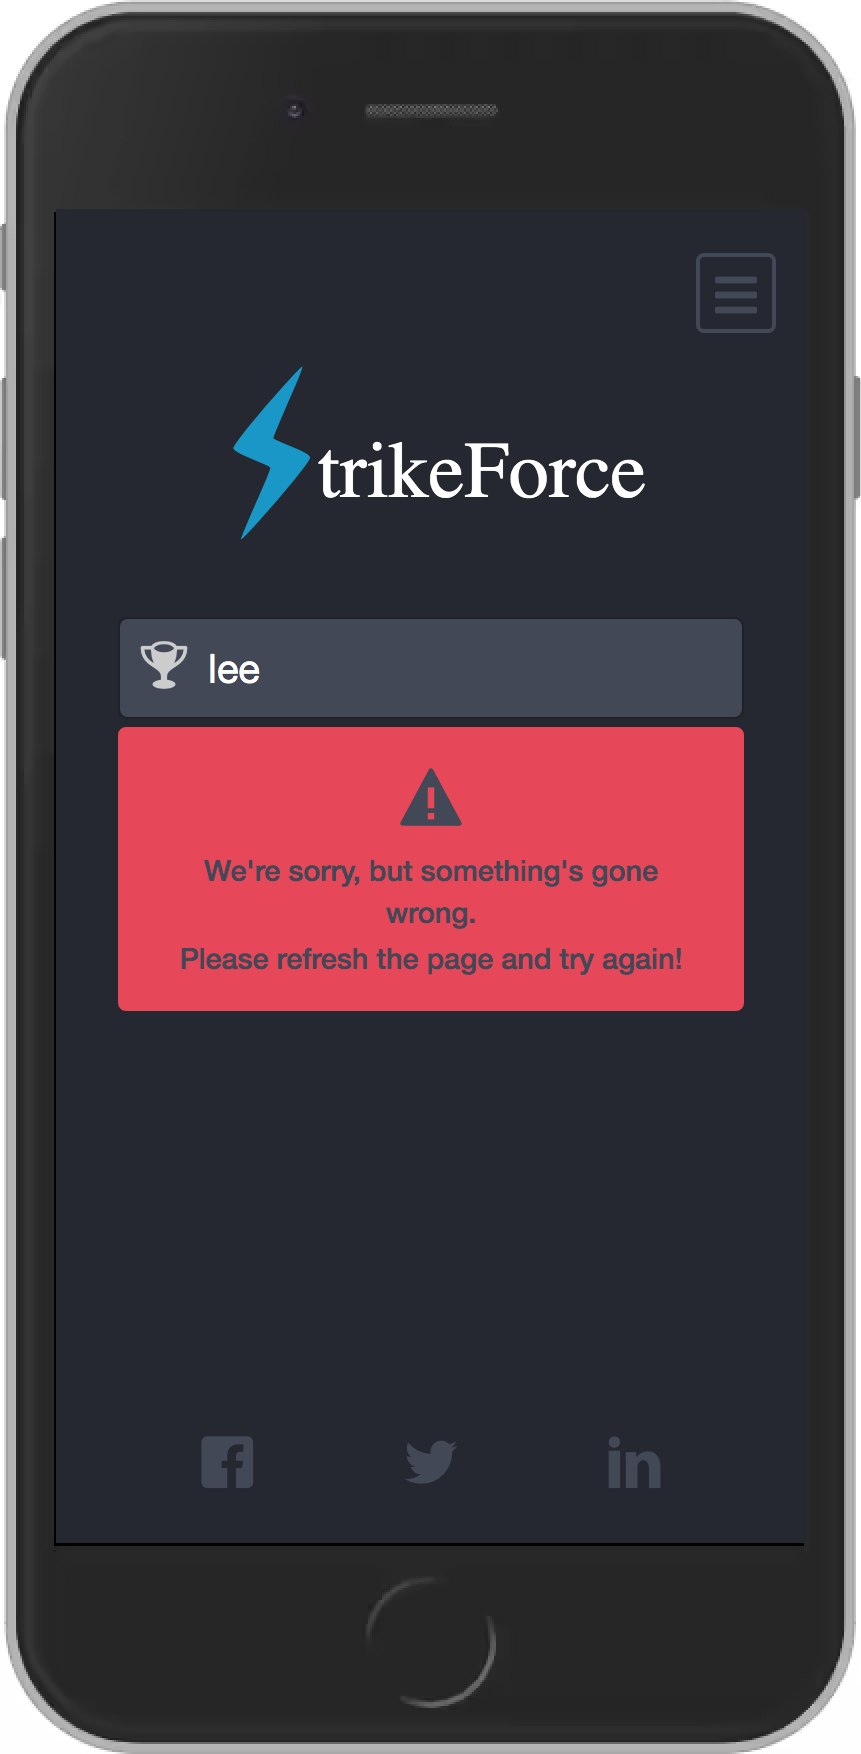
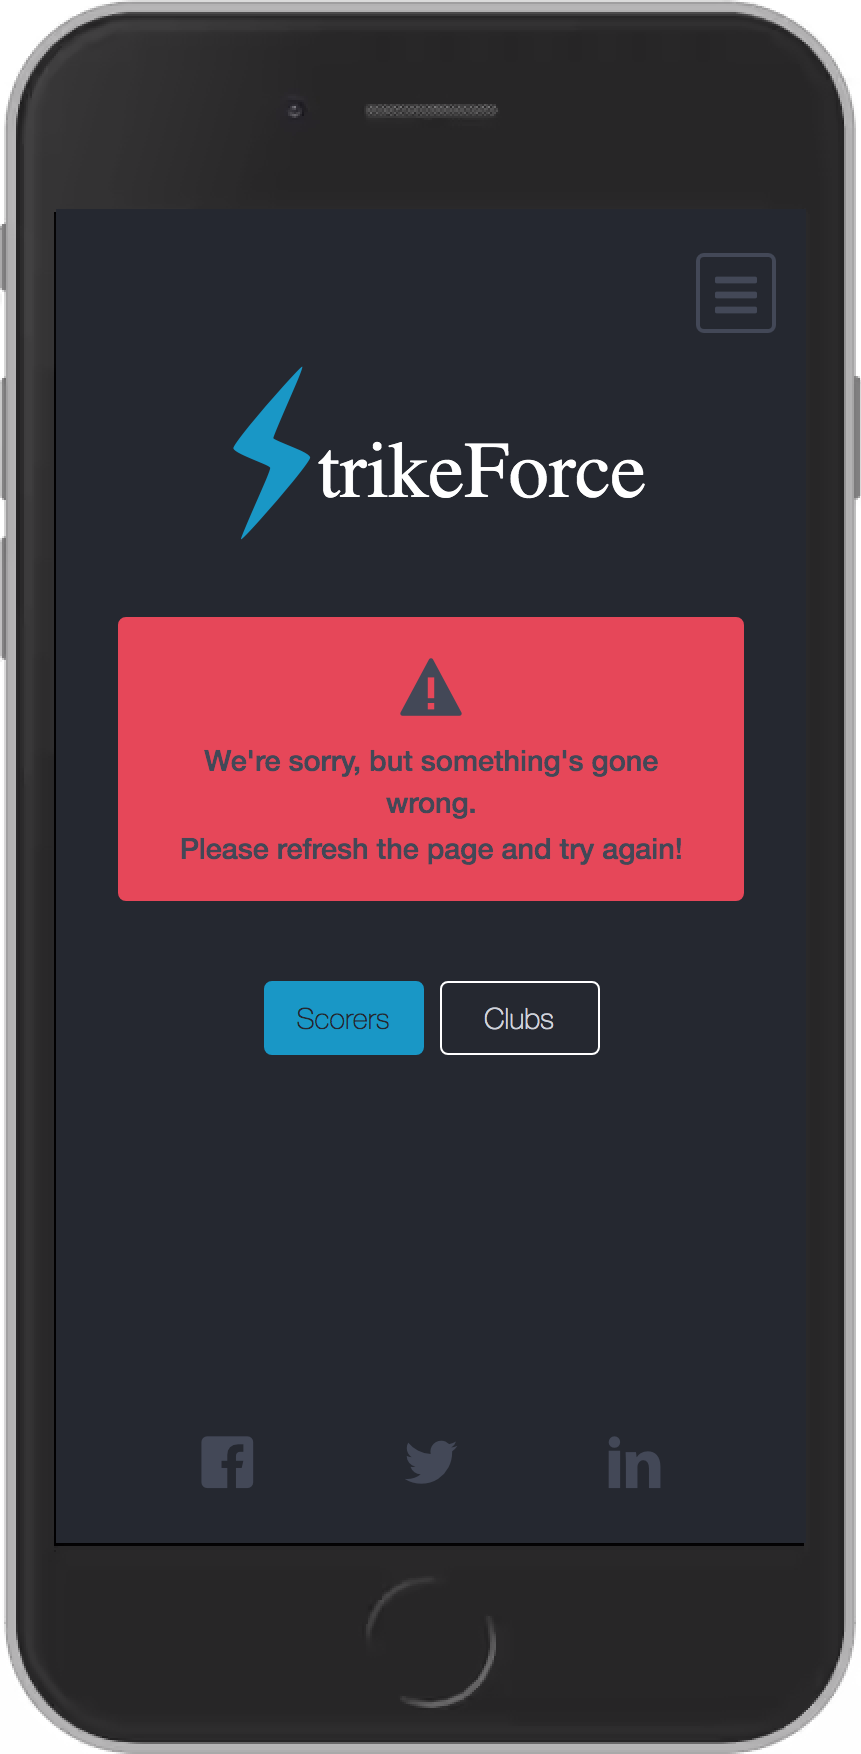
Update error handling code to cater for no response from API

Changed region(s): [[0.1208, 0.3387, 0.8757, 0.6157]]

diff --git a/assets/js/script.js b/assets/js/script.js
@@ -182,15 +182,26 @@ $(document).ready(function() {
             const getScorerID = new scorerSettings();
             getScorerID.url += `search?query=${scorerName}`;
             $.ajax(getScorerID).done(function(response) {
-                // Store scorer ID from initial API call in variable
-                var scorerID = response.players[0].id;
+                if (response.count.players === 0) {
+                    // Hide pill buttons while page is loading scorer data
+                    $('#pills-tab').addClass('d-none');
+                    playerMatchList.innerHTML = renderSpinner();
+                    setTimeout(() => {
+                        playerMatchList.innerHTML = "<div class='alert alert-danger text-center' role='alert'><span class='icon icon-warning'></span><br><p>We're sorry, but something's gone wrong.</p><p>Please refresh the page and try again!</p></div>";
+                        $('#pills-tab').removeClass('d-none');
+                    }, 5000);
+                    return false;
+                } else {
+                    // Store scorer ID from initial API call in variable
+                    var scorerID = response.players[0].id;
+                }
 
                 // Use this scorer ID variable in two further API calls
                 const getScorerValue = new scorerSettings();
-                getScorerValue.url = `https://transfermarket.p.rapidapi.com/players/get-market-value?id=${scorerID}`;
+                getScorerValue.url = `https://transfermarket.p.rapidapi.co/players/get-market-value?id=${scorerID}`;
 
                 const getScorerProfile = new scorerSettings();
-                getScorerProfile.url = `https://transfermarket.p.rapidapi.com/players/get-profile?id=${scorerID}`;
+                getScorerProfile.url = `https://transfermarket.p.rapidapi.co/players/get-profile?id=${scorerID}`;
 
                 // Hide pill buttons while page is loading scorer data
                 $('#pills-tab').addClass('d-none');
@@ -288,21 +299,32 @@ $(document).ready(function() {
             const getClubID = new clubSettings();
             getClubID.url += `search?query=${clubName}`;
             $.ajax(getClubID).done(function(response) {
-                // Store club ID from initial API call in variable
-                var clubID = response.clubs[0].id;
+                if (response.count.clubs === 0) {
+                    // Hide pill buttons while page is loading scorer data
+                    $('#pills-tab').addClass('d-none');
+                    clubMatchList.innerHTML = renderSpinner();
+                    setTimeout(() => {
+                        clubMatchList.innerHTML = "<div class='alert alert-danger text-center' role='alert'><span class='icon icon-warning'></span><br><p>We're sorry, but something's gone wrong.</p><p>Please refresh the page and try again!</p></div>";
+                        $('#pills-tab').removeClass('d-none');
+                    }, 5000);
+                    return false;
+                } else {
+                    // Store club ID from initial API call in variable
+                    var clubID = response.clubs[0].id;
+                }
 
                 // Use this club ID variable in three further API calls
                 const get_ClubLogo = new clubSettings();
-                get_ClubLogo.url = `https://transfermarket.p.rapidapi.com/clubs/get-short-info?ids=${clubID}`;
+                get_ClubLogo.url = `https://transfermarket.p.rapidapi.co/clubs/get-short-info?ids=${clubID}`;
 
                 const getClubProfile = new clubSettings();
-                getClubProfile.url = `https://transfermarket.p.rapidapi.com/clubs/get-profile?id=${clubID}`;
+                getClubProfile.url = `https://transfermarket.p.rapidapi.co/clubs/get-profile?id=${clubID}`;
 
                 const getClubPosition = new clubSettings();
-                getClubPosition.url = `https://transfermarket.p.rapidapi.com/competitions/get-table?id=GB1&seasonID=2020`;
+                getClubPosition.url = `https://transfermarket.p.rapidapi.co/competitions/get-table?id=GB1&seasonID=2020`;
 
                 const getSquadValue = new clubSettings();
-                getSquadValue.url = `https://transfermarket.p.rapidapi.com/clubs/get-squad?id=${clubID}`;
+                getSquadValue.url = `https://transfermarket.p.rapidapi.co/clubs/get-squad?id=${clubID}`;
 
                 // Hide pill buttons while page is loading club data
                 $('#pills-tab').addClass('d-none');

diff --git a/assets/js/dashboards.js b/assets/js/dashboards.js
@@ -116,8 +116,19 @@ $(document).ready(function() {
                 const getScorerID = new scorerSettings();
                 getScorerID.url += `search?query=${scorerName}`;
                 $.ajax(getScorerID).done(function(response) {
-                    // Store scorer ID from initial API call in variable
-                    var scorerID = response.players[0].id;
+                    if (response.count.players === 0) {
+                        // Hide pill buttons while page is loading scorer data
+                        $('#pills-tab').addClass('d-none');
+                        playerMatchList.innerHTML = renderSpinner();
+                        setTimeout(() => {
+                            playerMatchList.innerHTML = "<div class='alert alert-danger text-center' role='alert'><span class='icon icon-warning'></span><br><p>We're sorry, but something's gone wrong.</p><p>Please refresh the page and try again!</p></div>";
+                            $('#pills-tab').removeClass('d-none');
+                        }, 5000);
+                        return false;
+                    } else {
+                        // Store scorer ID from initial API call in variable
+                        var scorerID = response.players[0].id;
+                    }
 
                     // Use this scorer ID variable in two further API calls
                     const getScorerValue = new scorerSettings();
@@ -267,8 +278,19 @@ $(document).ready(function() {
                 const getClubID = new clubSettings();
                 getClubID.url += `search?query=${clubName}`;
                 $.ajax(getClubID).done(function(response) {
-                    // Store club ID from initial API call in variable
-                    var clubID = response.clubs[0].id;
+                    if (response.count.clubs === 0) {
+                        // Hide pill buttons while page is loading scorer data
+                        $('#pills-tab').addClass('d-none');
+                        clubMatchList.innerHTML = renderSpinner();
+                        setTimeout(() => {
+                            clubMatchList.innerHTML = "<div class='alert alert-danger text-center' role='alert'><span class='icon icon-warning'></span><br><p>We're sorry, but something's gone wrong.</p><p>Please refresh the page and try again!</p></div>";
+                            $('#pills-tab').removeClass('d-none');
+                        }, 5000);
+                        return false;
+                    } else {
+                        // Store club ID from initial API call in variable
+                        var clubID = response.clubs[0].id;
+                    }
 
                     // Use this club ID variable in three further API calls
                     const get_ClubLogo = new clubSettings();

diff --git a/README.md b/README.md
@@ -203,7 +203,7 @@ Apart from this, dynamically-loaded imagery such as player profile photos and cl
 
 - All testing was performed manually, and on a near-constant basis as the project evolved. [Google Chrome DevTools](https://developers.google.com/web/tools/chrome-devtools/?utm_source=dcc&utm_medium=redirect&utm_campaign=2018Q2) served as an indispensable resource throughout this testing process, allowing incremental adjustments to be made to the site's infrastructure and layout. The site's responsiveness was also closely monitored and rigorously tested from start to finish using the bespoke developer-oriented [Blisk web browser](https://blisk.io/).
 
-- In addition to Chrome and Blisk, the site's functionality and appearance was also checked a number of times in the Safari, Firefox and Amazon Silk browsers. Numerous devices and screen sizes - belonging mostly to friends and family members - were similarly used to identify any blind spots in the site's responsive design and feature compatibility. These included the Samsung Galaxy S5, iPhone 7 Plus, Moto G4, Huawei P20, MacBook Pro, iPad and Kindle Fire.
+- In addition to Chrome and Blisk, the site's functionality and appearance was also checked a number of times in the Safari, Firefox, Microsoft Edge and Amazon Silk browsers. Numerous devices and screen sizes - belonging mostly to friends and family members - were similarly used to identify any blind spots in the site's responsive design and feature compatibility. These included the Samsung Galaxy S5, iPhone 7 Plus, Moto G4, Huawei P20, MacBook Pro, iPad and Kindle Fire.
 
 - During testing, a display bug was discovered that caused the `footer` content to rise and cramp/obscure the text input fields on mobile devices when the keyboard was enabled after one of these text inputs gained focus. A workable hack for overcoming this issue was taken from [this Stack Overflow query](https://stackoverflow.com/questions/22627646/how-to-prevent-mobile-keyboard-from-rising-footer-over-the-text-fields)
 
@@ -287,7 +287,7 @@ Apart from this, dynamically-loaded imagery such as player profile photos and cl
 
   - A decision was made to override/disable default HTML5 client-side `form` validation in favour of the custom client-side validation described above. This was achieved by adding a `novalidate` attribute to the `#contact-form` element, as suggested in [this Stack Overflow solution](https://stackoverflow.com/questions/3090369/disable-validation-of-html5-form-elements)
 
-  - On the server side, any error such as a '404 Not Found' Client Error (resulting from an invalid API call, for instance) or a '503 Service Unavailable' Server Error will generate the following catch-all `.alert` message for the user:
+  - On the server side, any error such as a '404 Not Found' Client Error (resulting from an invalid API call, for instance) or a '503 Service Unavailable' Server Error will generate the following catch-all `.alert` message for the user, informing them of the existence of a problem and asking them to "(p)lease refresh the page and try again":
 
     <p align="center"><img src="docs/images/screenshots/strikeforce-alert5.png" alt="StrikeForce Contact page pre-submit" width="15%" height="auto" style="margin-right: 10px;"><img src="docs/images/screenshots/strikeforce-alert6.png" alt="StrikeForce Contact page post-submit" width="15%" height="auto"></p>
 
